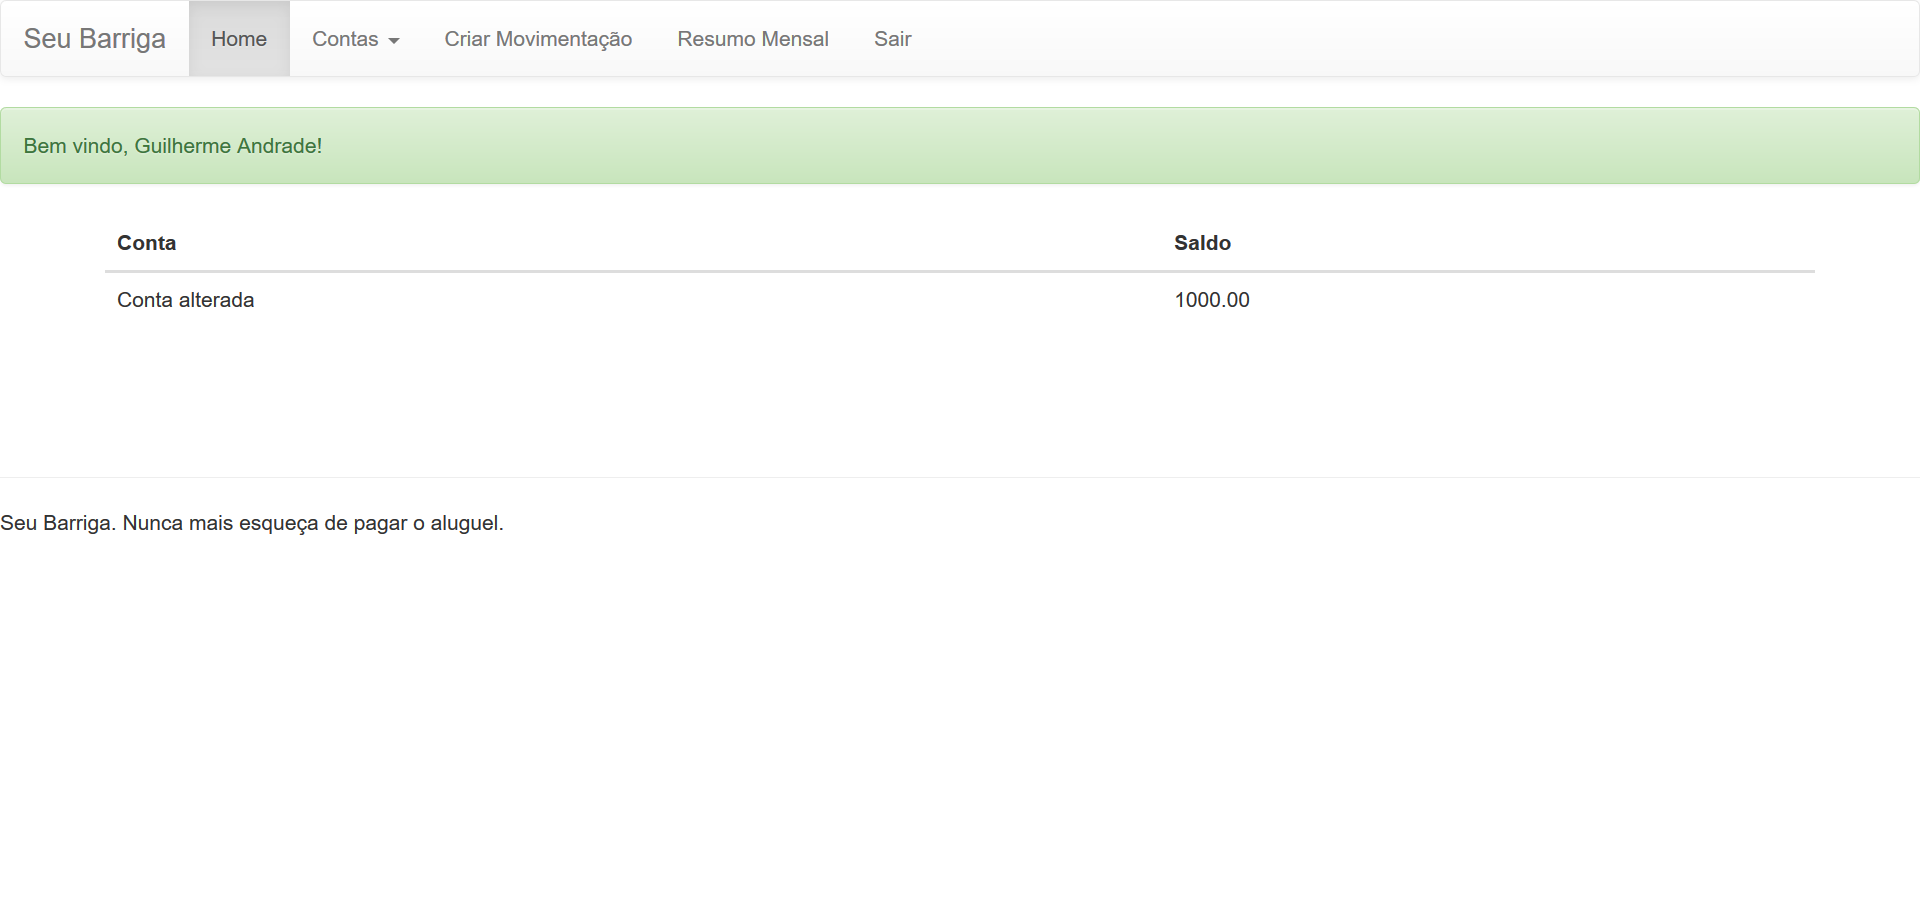
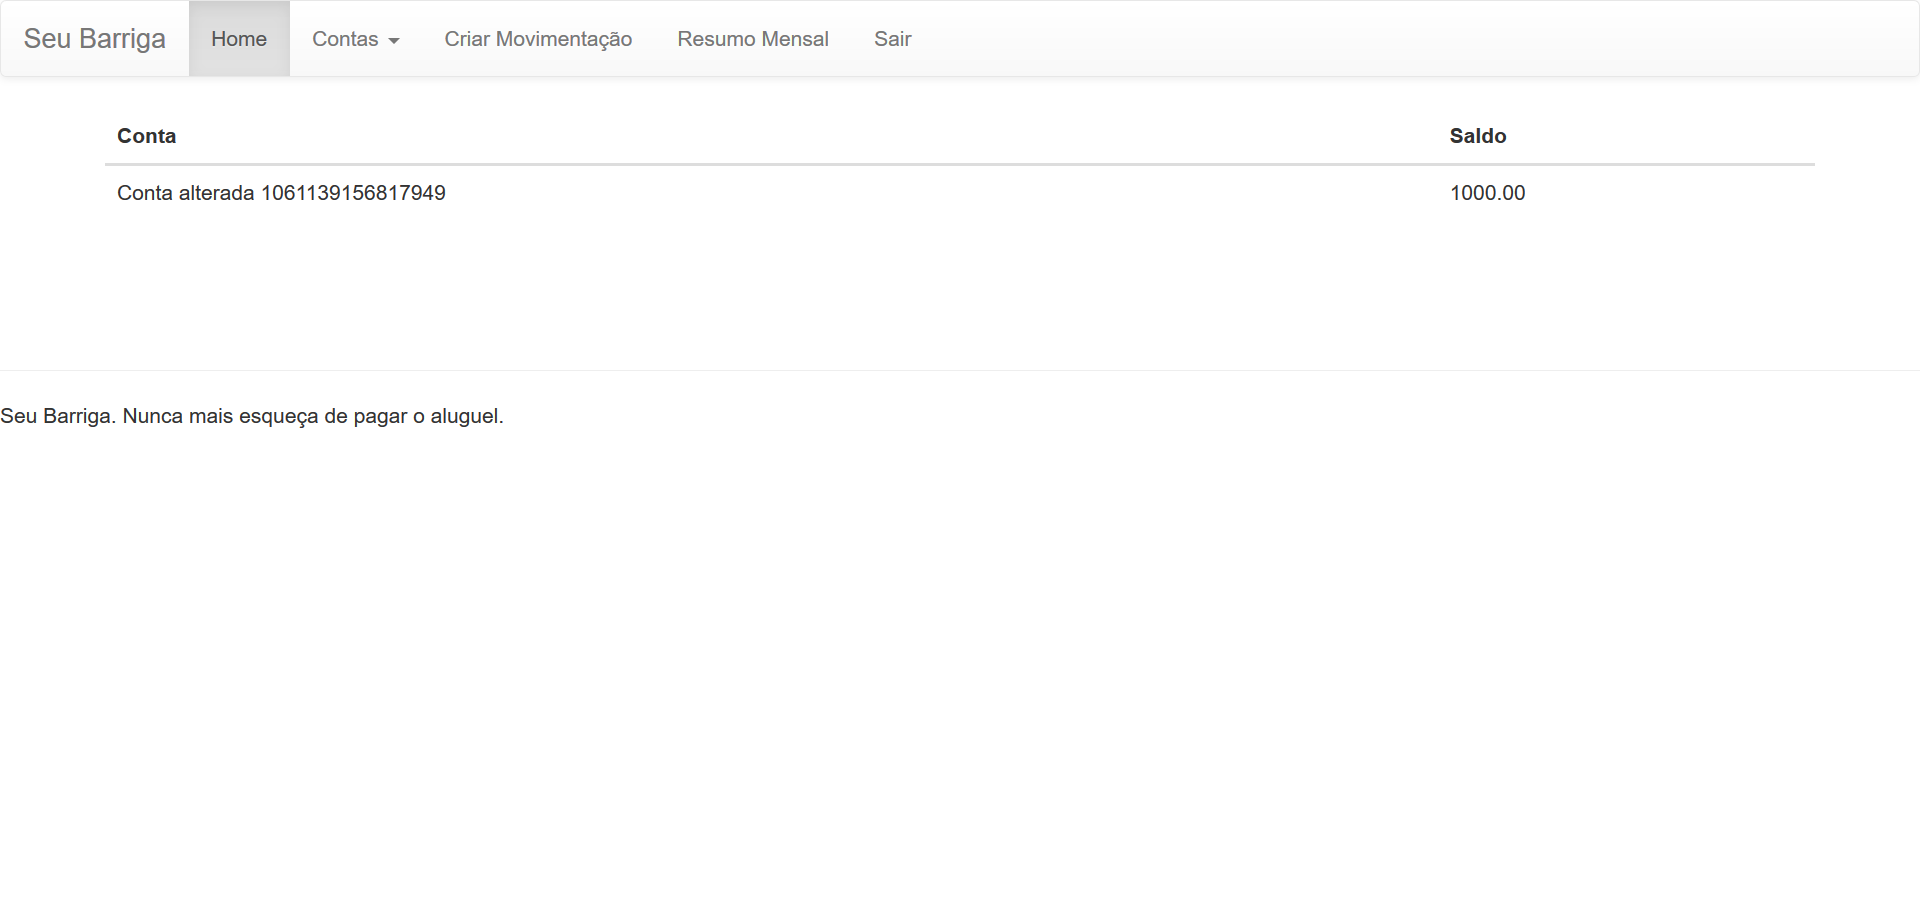
Ajustes finalizados

diff --git a/src/main/java/br/mg/gsandrade/suites/SuiteGeral.java b/src/main/java/br/mg/gsandrade/suites/SuiteGeral.java
@@ -1,13 +1,18 @@
 package br.mg.gsandrade.suites;
 
+import org.junit.AfterClass;
+import org.junit.BeforeClass;
 import org.junit.runner.RunWith;
 import org.junit.runners.Suite;
 import org.junit.runners.Suite.SuiteClasses;
 
+import br.mg.gsandrade.core.DriverFactory;
+import br.mg.gsandrade.pages.LoginPage;
 import br.mg.gsandrade.tests.ContaTest;
 import br.mg.gsandrade.tests.HomeTest;
 import br.mg.gsandrade.tests.MovimentacaoTest;
 import br.mg.gsandrade.tests.RemoverContaComMovimentacaoTest;
+import br.mg.gsandrade.tests.RemoverContaSemMovimentacaoTest;
 import br.mg.gsandrade.tests.ResumoMensalTest;
 
 @RunWith(Suite.class)
@@ -16,8 +21,23 @@ import br.mg.gsandrade.tests.ResumoMensalTest;
 	MovimentacaoTest.class,
 	RemoverContaComMovimentacaoTest.class,
 	HomeTest.class,
-	ResumoMensalTest.class
+	ResumoMensalTest.class,
+	RemoverContaSemMovimentacaoTest.class
 })
 public class SuiteGeral {
 
+	private static LoginPage loginPage = new LoginPage();
+	
+	@BeforeClass
+	public static void inicializa() {
+		loginPage.acessarTelaInicial();
+		loginPage.setEmail("conta10@conta10");
+		loginPage.setSenha("123456");
+		loginPage.entrar();
+	}
+	
+	@AfterClass
+	public static void finaliza() {
+		DriverFactory.killDriver();
+	}		
 }

diff --git a/src/main/java/br/mg/gsandrade/tests/ResumoMensalTest.java b/src/main/java/br/mg/gsandrade/tests/ResumoMensalTest.java
@@ -1,6 +1,5 @@
 package br.mg.gsandrade.tests;
 
-
 import org.junit.Test;
 import org.junit.runners.MethodSorters;
 
@@ -37,4 +36,18 @@ public class ResumoMensalTest extends BaseTest {
 		menuPage.acessarTelaResumoMensal();
 		Assert.assertEquals("Seu Barriga - Extrato", DriverFactory.getDriver().getTitle());
 	}
+	
+	@Test
+	public void test3_ValidaTabelaVazia() {
+		menuPage.acessarTelaResumoMensal();
+		if(resumoMensalPage.validaTabelaVazia()) {
+			Assert.assertTrue(resumoMensalPage.validaTabelaVazia());
+			System.out.println("A tabela possui registros");
+		}
+		else {
+			Assert.assertFalse(resumoMensalPage.validaTabelaVazia());
+			System.out.println("A tabela nao possui registros");
+		}
+	}
+	
 }

diff --git a/src/main/java/br/mg/gsandrade/core/BaseTest.java b/src/main/java/br/mg/gsandrade/core/BaseTest.java
@@ -8,28 +8,16 @@ import java.io.IOException;
 
 import org.apache.commons.io.FileUtils;
 import org.junit.After;
-import org.junit.Before;
 import org.junit.Rule;
 import org.junit.rules.TestName;
 import org.openqa.selenium.OutputType;
 import org.openqa.selenium.TakesScreenshot;
 
-import br.mg.gsandrade.pages.LoginPage;
-
 public class BaseTest {
 	
-	private LoginPage page = new LoginPage();
 
 	@Rule
 	public TestName testName = new TestName();
-	
-	@Before
-	public void inicializa() {
-		page.acessarTelaInicial();
-		page.setEmail("conta10@conta10");
-		page.setSenha("123456");
-		page.entrar();
-	}
 	
 	@After
 	public void finaliza() throws IOException {

diff --git a/src/main/java/br/mg/gsandrade/tests/HomeTest.java b/src/main/java/br/mg/gsandrade/tests/HomeTest.java
@@ -4,14 +4,18 @@ import org.junit.Assert;
 import org.junit.Test;
 
 import br.mg.gsandrade.core.BaseTest;
+import br.mg.gsandrade.core.Propriedades;
 import br.mg.gsandrade.pages.HomePage;
+import br.mg.gsandrade.pages.MenuPage;
 
 public class HomeTest extends BaseTest {
 
+	private MenuPage menuPage = new MenuPage();
 	private HomePage homePage = new HomePage();
 	
 	@Test
 	public void testValidaSaldoConta() {
-		Assert.assertEquals("1000.00", homePage.obterSaldoConta("Conta alterada"));
+		menuPage.acessarTelaHome();
+		Assert.assertEquals("1000.00", homePage.obterSaldoConta(Propriedades.NOME_CONTA_ALTERADA));
 	}
 }

diff --git a/src/main/java/br/mg/gsandrade/pages/ResumoMensalPage.java b/src/main/java/br/mg/gsandrade/pages/ResumoMensalPage.java
@@ -1,5 +1,7 @@
 package br.mg.gsandrade.pages;
 
+import static br.mg.gsandrade.core.DriverFactory.getDriver;
+
 import org.openqa.selenium.By;
 
 import br.mg.gsandrade.core.BasePage;
@@ -19,4 +21,13 @@ public class ResumoMensalPage extends BasePage {
 		return obtemTexto(By.xpath("//div[@class='alert alert-success']"));
 	}
 
+	public boolean validaTabelaVazia() {
+		try {
+			getDriver().findElement(By.xpath("//*[@id='tabelaExtrato']/tbody/tr"));
+			return true;
+		} catch (Exception e) {
+			return false;
+		}
+
+	}
 }

diff --git a/src/main/java/br/mg/gsandrade/core/Propriedades.java b/src/main/java/br/mg/gsandrade/core/Propriedades.java
@@ -2,9 +2,11 @@ package br.mg.gsandrade.core;
 
 public class Propriedades {
 
-	public static boolean FECHAR_BROWSER = true;
+	public static boolean FECHAR_BROWSER = false;
 	
 	public static Browsers browser = Browsers.FIREFOX;
+	
+	public static String NOME_CONTA_ALTERADA = "Conta alterada "+System.nanoTime();
 	
 	public enum Browsers {
 		CHROME,

diff --git a/src/main/java/br/mg/gsandrade/pages/MenuPage.java b/src/main/java/br/mg/gsandrade/pages/MenuPage.java
@@ -22,4 +22,8 @@ public class MenuPage extends BasePage {
 	public void acessarTelaResumoMensal() {
 		clicaLink("Resumo Mensal");
 	}
+	
+	public void acessarTelaHome() {
+		clicaLink("Home");
+	}
 }
